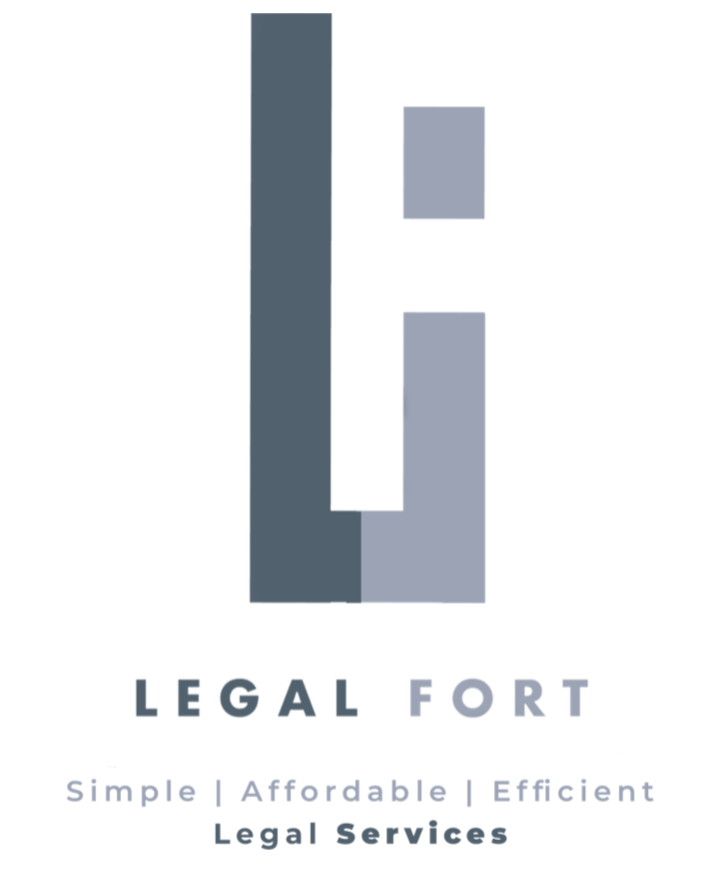
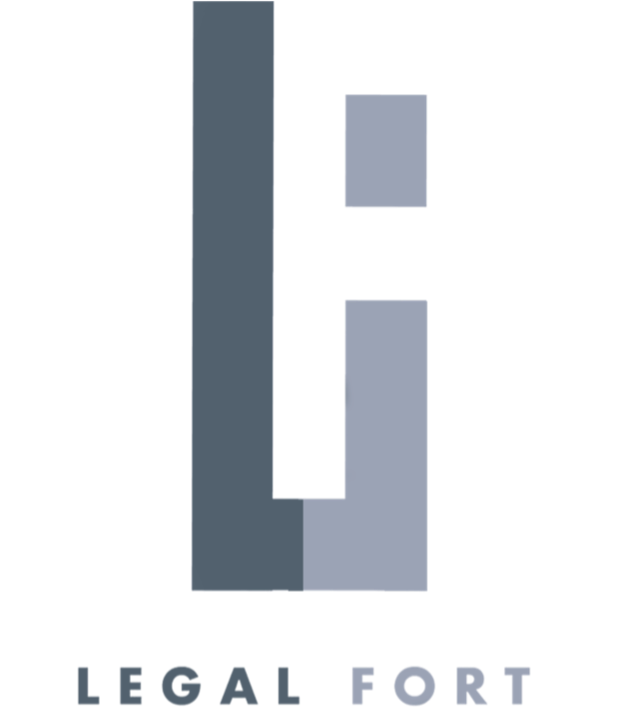
mobile menu page update and hero resizing

diff --git a/styles.css b/styles.css
@@ -74,9 +74,9 @@
         .hero-logo {
             max-width: 10px;          /* or clamp(280px, 55vw, 520px) */
             width: 25vw;
-            max-width: 80px;
+            max-width: 55px;
             height: auto;
-            margin: 0 auto 0.5rem;
+            margin: 0 auto 0.1rem;
             display: block;
             filter: drop-shadow(0 8px 24px rgba(0,0,0,0.35));
         }
